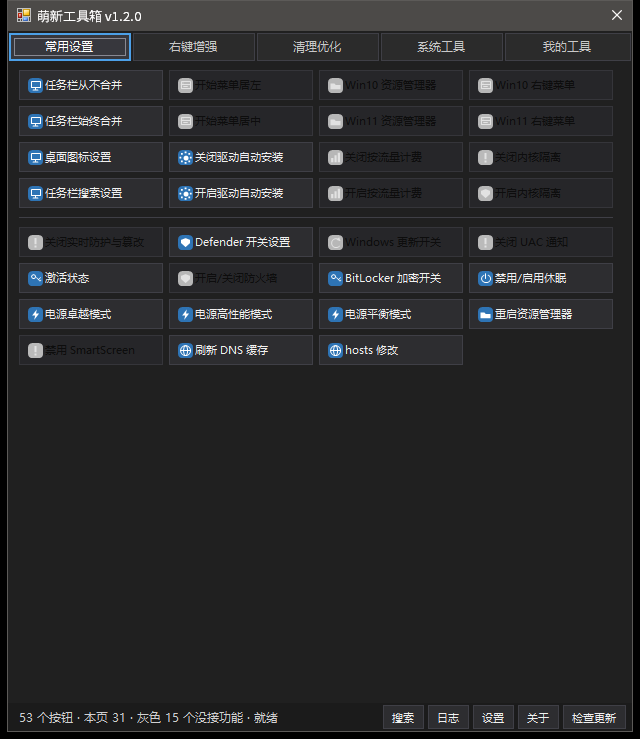
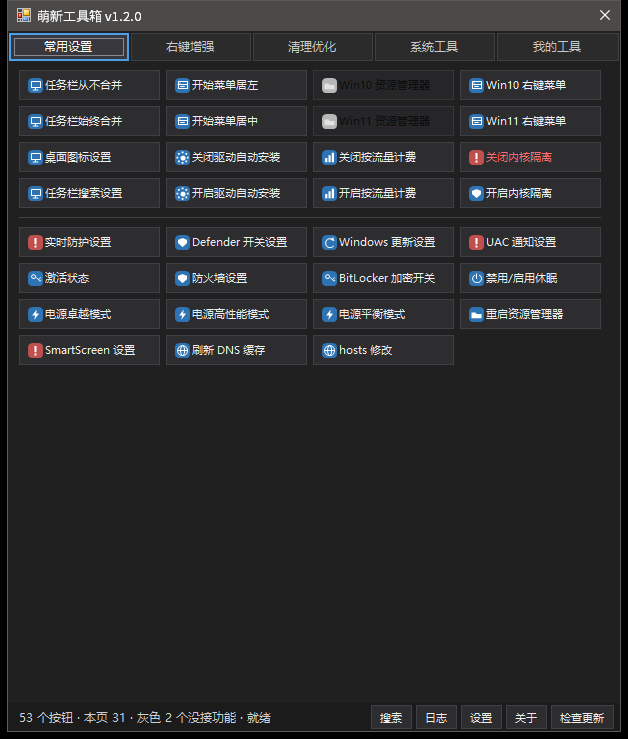
feat: 剩下的灰按钮分批做完（安全类改成打开官方界面 / 内核隔离与按流量计费真做 / Win11 专属照写注册表）
用户拍板的四条：安全类改名+只打开官方界面；Win11 专属照写注册表等换系统生效；
内核隔离+按流量计费真做（二次确认 + 说明重启后生效）；两个「资源管理器」先留着不管。

- 第 2 批 安全类 5 个 → 只打开官方界面（改名成 …设置）：
  实时防护设置 / SmartScreen 设置（探测 SecHealthUI App，退到 ms-settings:windowsdefender）、
  UAC 通知设置（UserAccountControlSettings.exe）、防火墙设置（念状态 + wf.msc）、
  Windows 更新设置（ms-settings:windowsupdate）。一律不代关系统防线。
- 第 3 批 内核隔离 ×2（HKLM DeviceGuard，重启生效）、按流量计费 ×2
  （DefaultMediaCost 被系统保护 → 自动改走官方设置页并说明）。
- 第 4 批 开始菜单居左/居中（TaskbarAl）、Win10/Win11 右键菜单（CLSID 键建/删）。
- 灰按钮 15 → 2（只剩两个「资源管理器」，含义待定，用户说先留着）。
  真功能 38 → 51，危险按钮 6 → 3，窗口 640 → 628（最长按钮名变了）。

顺手修掉两个一直失效的旧按钮：Defender 开关设置、BitLocker 加密开关。
排查发现这台是精简版 Windows：安全中心 App/Defender 被移除、设置里的 windowsdefender 页被
SettingsPageVisibility 藏了、BitLockerWizard 不在、wf.msc/netsh advfirewall/NetSecurity 全没有。
原来的写法是"盲开 URI"，用户点了就是静默失灵；现在全部改成先探测、再打开、都没有就说清楚。

测试：把那两个数字改成 2 / 3；界面回归的"参考墨迹行数"改用彩色图标按钮量（灰图标判不出来会多算
一行，导致 D01e 假红）。109 项全绿（命令行 44 + 界面 65）。文档 DESIGN §4.1 重写、§12 补坑 28/29。

diff --git a/docs/DESIGN.md b/docs/DESIGN.md
@@ -1,9 +1,9 @@
 # 萌新工具箱（mxx1 Toolbox）· 设计 · v1.3（已实现）
 
-> 状态：**已实现并全绿**（2026-10-04，版本 1.2.0）：53 个按钮里 38 个是真功能，其余 15 个灰色占位（禁用）。
+> 状态：**已实现并全绿**（2026-10-04，版本 1.2.0）：53 个按钮里 51 个是真功能，其余 2 个灰色占位（禁用）。
 > 本文件是外观与行为的**唯一正本**，改设计先改这里，再同步 skill。
-> 界面截图：`docs/gui-shot.png`（浅色，全是灰色占位按钮）、`docs/dark-shot.png`（深色）、
-> `docs/system-shot.png`（系统工具页签，彩色 = 真功能，用来对照灰色）；
+> 界面截图：`docs/gui-shot.png`（浅色「常用设置」页：彩色 = 真功能，灰色 = 还没接）、
+> `docs/dark-shot.png`（深色）、`docs/system-shot.png`（系统工具页签）；
 > 外观参考图：`C:\Users\Administrator\Pictures\Snipaste_2026-10-04_10-29-34.png`（Windows系统工具箱 v1.1）。
 
 ## 1 定位
@@ -49,7 +49,7 @@
 │  ────────────────────────────────────────────────────────────────────  │
 │  [i] 关闭实时防护与篡改 [i] Windows 激活 [i] Defender 开关设置 [i] Windows 更新开关│
 │  ...                                                                   │
-│  53 个按钮 · 本页 31 · 灰色 15 个没接功能 · 就绪  [搜索][日志][设置][关于][检查更新] │
+│  53 个按钮 · 本页 31 · 灰色 2 个没接功能 · 就绪  [搜索][日志][设置][关于][检查更新] │
 └────────────────────────────────────────────────────────────────────────┘
 ```
 
@@ -86,21 +86,19 @@
 深色不需要自绘控件：`FlatStyle=Flat` + `FlatAppearance` 逐主题赋值即可；
 标题栏用 `DwmSetWindowAttribute(hwnd, 20→19, dark)`，滚动条用 `SetWindowTheme(hwnd, "DarkMode_Explorer")`。
 
-## 4 页签与按钮清单（共 53 个：38 真功能 + 15 灰色占位）
+## 4 页签与按钮清单（共 53 个：51 真功能 + 2 灰色占位）
 
 `[i]` = 16×16 图标；**粗体** = 危险按钮（深红文字 + 二次确认）；灰色 = `placeholder`（禁用，点不动）。
 
-### 4.1 常用设置（31 个，两段：16 个真功能 + 15 个灰色占位）
+### 4.1 常用设置（31 个，两段：29 个真功能 + 2 个灰色占位）
 
-**真功能 16 个**（点得动；`confirm` = 点之前先弹二次确认）：
+**真功能 29 个**（点得动；`confirm` = 点之前先弹二次确认）：
 
 | 按钮 | 怎么实现的 |
 | --- | --- |
 | 桌面图标设置 | `rundll32 shell32.dll,Control_RunDLL desk.cpl,,0` |
 | 关闭 / 开启驱动自动安装 | `DriverSearching\SearchOrderConfig` = 0 / 1（管理员 + 确认） |
-| Defender 开关设置 | 打开 `ms-settings:windowsdefender`（开关在系统安全中心里，工具箱不代按） |
 | 激活状态 | **只读**：查 `SoftwareLicensingProduct` 把授权状态列出来 |
-| 开启/关闭 BitLocker 加密 | 打开控制面板的 BitLocker 管理页 |
 | 禁用/启用休眠 | 读 `HibernateEnabled` 再 `powercfg /h on\|off`（管理员 + 确认） |
 | 电源卓越 / 高性能 / 平衡模式 | `powercfg` 切方案（卓越模式先 `-duplicatescheme`，管理员 + 确认） |
 | 重启资源管理器 | `taskkill /f /im explorer.exe` + `start explorer.exe`（确认） |
@@ -108,15 +106,25 @@
 | hosts 修改 | 管理员身份打开 `drivers\etc\hosts`（记事本） |
 | 任务栏从不合并 / 始终合并 | `HKCU\...\Explorer\Advanced\TaskbarGlomLevel` = 2 / 0（重启资源管理器后生效；**Win11 先判版本**，微软已取消这个开关，按钮会直接说明而不是假装成功） |
 | 任务栏搜索设置 | 打开 `ms-settings:taskbar`（搜索框显示方式就在这一页，Win10 / Win11 都能开） |
+| 开始菜单居左 / 居中 | `HKCU\...\Explorer\Advanced\TaskbarAl` = 0 / 1（**Win11 才认**；按用户定的做法照写，并在结果里说明"这台是 Win10，换到 Win11 就生效"） |
+| Win10 / Win11 右键菜单 | `HKCU\Software\Classes\CLSID\{86ca1aa0-…-50c905bae2a2}\InprocServer32` 建 / 删（经典 vs 新版；同样只在 Win11 有肉眼变化） |
+| 关闭 / 开启内核隔离 | `HKLM\...\DeviceGuard\Scenarios\HypervisorEnforcedCodeIntegrity\Enabled` = 0 / 1（管理员 + 确认 + **重启电脑后生效**，"关闭"是危险按钮） |
+| 关闭 / 开启按流量计费 | 先试着写 `DefaultMediaCost`；**这个键被系统保护**（只有 Windows 自己的服务有写权限，管理员也不行）→ 改走官方设置页并说明原因 |
+| 实时防护设置 / Defender 开关设置 / SmartScreen 设置 | **只打开官方界面，不代关系统防线**：先探测 Windows 安全中心 App（`Get-AppxPackage` → `shell:appsFolder\<PFN>!SecHealthUI`），没有就退到 `ms-settings:windowsdefender`，都没有就给一句说明 |
+| 防火墙设置 | 先念一遍三个配置文件的开关（`Get-NetFirewallProfile`，没有就说明），再打开 `wf.msc`；管理组件被精简掉的系统会说明"既看不了也打不开" |
+| UAC 通知设置 | 打开 `UserAccountControlSettings.exe`（程序不代改 UAC —— 关掉会影响应用商店和部分应用） |
+| Windows 更新设置 | 打开 `ms-settings:windowsupdate`（程序不代停更新服务） |
+| BitLocker 加密开关 | 有 `BitLockerWizard.exe` 就打开控制面板的 BitLocker 页；只剩 `manage-bde.exe` 就说明"图形界面被移除了，命令行还在" |
 
-**灰色占位 15 个**（`module: todo`，界面上禁用、点不动）：
-开始菜单居左 / 居中、Win10 / Win11 资源管理器、Win10 / Win11 右键菜单、
-关闭 / 开启按流量计费、关闭 / 开启内核隔离、关闭实时防护与篡改、Windows 更新开关、
-关闭 UAC 通知、开启/关闭防火墙、禁用 SmartScreen。
+**灰色占位 2 个**（`module: todo`，界面上禁用、点不动）：**Win10 资源管理器 / Win11 资源管理器**。
 
-> 这些**故意不做**，每个的 `hint` 里写了原因：要么必须改注册表 + 重启资源管理器（改错会让资源管理器起不来），
-> 要么要重启电脑（内核隔离），要么是关掉系统防线（UAC / SmartScreen / 实时防护 / 防火墙）风险太大，
-> 要么系统版本差异太大（任务栏合并 Win11 已经取消了那个开关，得靠第三方工具）。
+> 这两个按钮**含义还没定**（用户 2026-10-04："先留着不管他"）—— 它可能指资源管理器外观、也可能就是
+> 右键菜单风格（那就和上面那两个「右键菜单」重复了）。**想清楚之前不实现**，`hint` 里写明了原因。
+
+> ⚠ 这一页里"打开官方界面"的按钮有个共同规矩：**先探测、再打开、都没有就说清楚**。
+> 原因是用户的这台机器是**精简版 Windows**：Windows 安全中心 App、Defender、BitLocker 图形界面、
+> `wf.msc`、连 `netsh advfirewall` 都被拿掉了，`SettingsPageVisibility` 策略还把设置里的
+> `windowsdefender` 页藏了。**盲写一个 URI 会让用户点了什么都不发生**（属于本项目最忌讳的"静默失灵"）。
 
 > ⚠ 「Windows 激活」按钮**已按要求删除**（2026-10-04）：它打开的是系统激活设置页，
 > 容易被当成"帮你激活"，属于会带来合规风险的东西。只读的「激活状态」保留 —— 它只是把系统
@@ -274,13 +282,13 @@ CLI：`list [--tab <id>]` / `run <id> [--admin] [--dry]` / `status` / `checkupda
 
 **已完成（P0 → 1.2.0）**：窗口骨架、五个页签、四列网格 + 段分隔线、底栏五入口
 （搜索 / 日志 / 设置 / 关于 / 检查更新）、浅/深/跟随系统主题、`tools\*.json` 驱动 + **53 个按钮**
-（38 真功能 + 15 灰色禁用）、灰色占位规则（含置灰图标）、「右键增强」单个按钮（调隔壁安装器窗口）、
+（51 真功能 + 2 灰色禁用）、灰色占位规则（含置灰图标）、「右键增强」单个按钮（调隔壁安装器窗口）、
 「系统工具」12 个（Windows 自带组件 + 常用链接窗口）、「清理优化」8 个、「常用设置」13 个、
 **「我的工具」图形化新建 / 编辑 / 删除 + 拖拽加按钮**、外部工具目录 `bin-tools\`、
 按钮悬停提示、按钮右键菜单、日志面板 + 日志窗口、
 `build.ps1` / 编码体检 / 命令行回归 44 项 / 界面回归 65 项 / 截图工具。
 
-**P1（剩下的）**：把 15 个灰色占位里安全的那些接上（一个一个来，都要走二次确认 + 日志留痕）、
+**P1（剩下的）**：把剩下的灰色占位里安全的那些接上（一个一个来，都要走二次确认 + 日志留痕）、
 按钮排序 / 隐藏 / 固定到常用、多步 `macro`。
 
 **P2**：工具箱自身的更新检查、插件目录扫描、按钮包导入导出、`dsh` 类型按钮、
@@ -304,7 +312,7 @@ CLI：`list [--tab <id>]` / `run <id> [--admin] [--dry]` / `status` / `checkupda
 
 - `build.ps1` 一次通过，产出单文件 `bin\Mxx1Toolbox.exe`（约 136 KB = 139,264 字节，含 53 个内嵌图标），无警告
 - `tools\Test-Encoding.ps1` 全绿（98 个文件）
-- `tests\Test-Cli.ps1` **44/44**：中文不乱码、按钮数 53、页签分布 31/1/8/12/1、灰色占位 15、
+- `tests\Test-Cli.ps1` **44/44**：中文不乱码、按钮数 53、页签分布 31/1/8/12/1、灰色占位 2、
   占位按钮写日志、`permdel.gui --dry` 解析出隔壁 exe、直接问隔壁 exe 的 `status` 拿到 `installed=`、
   **12 个系统工具全部 `--dry` 解析通过**（少了目标或没解释就红）、错误用法退出码 2
 - `tests\Test-Gui.ps1` **60/60**：标题栏没有最小化/最大化方框、窗口可缩放、四列多行、
@@ -444,6 +452,35 @@ CLI：`list [--tab <id>]` / `run <id> [--admin] [--dry]` / `status` / `checkupda
     另外 `Launcher` 在 `kind: exe` 启动前也补了一次解析 —— 老版本建出来的按钮照样能跑。
     测试：拖拽手势是 OLE 拖放、没法在测试里合成，所以把**决策**做成命令行 `draft <路径>`
     （只打印会变成什么按钮，不写文件），回归 G01–G06 盯它。
+28. **"打开官方界面"这类按钮，盲开就是静默失灵**（做安全类那一批时发现的，影响 5 个按钮 + 2 个旧按钮）：
+    用户的机器是**精简版 Windows** —— 我按常规写法准备的入口，一半在这台机器上根本不存在：
+
+    | 入口 | 这台机器上的结果 |
+    | --- | --- |
+    | `ms-settings:windowsdefender` | 能打开"设置"，但 `SettingsPageVisibility` 策略把 `windowsdefender` **这一页藏了** |
+    | `shell:appsFolder\…SecHealthUI` | Windows 安全中心 App **没装**（`Get-AppxPackage` 查不到），explorer 回退成了打开「文档」 |
+    | `wf.msc`（高级防火墙） | **不在**（`mmc.exe` 打开的是空控制台，看着像成功） |
+    | `netsh advfirewall` | **不存在**（`advfirewall` 上下文整个没了） |
+    | `control.exe /name Microsoft.WindowsFirewall` / `firewall.cpl` | 退出码 0、**一个窗口都没有** |
+    | `control.exe /name Microsoft.BitLockerDriveEncryption` | 同上（现有的 BitLocker 按钮一直是死的） |
+    | `Get-NetFirewallProfile` / `Get-NetAdapter` | NetSecurity / NetAdapter 模块**都不在** |
+    | `manage-bde -status` | Provider load failure（WMI 提供程序也没了） |
+    | `UserAccountControlSettings.exe` / `desk.cpl` / `services.msc` / `gpedit.msc` | **能开**（这才是正常的那些） |
+
+    修法：这类按钮**一律先探测再打开**（`Test-Path` / `Get-Command` / `Get-AppxPackage`），
+    探测不到就给一句"这台系统里 XX 已被移除，没有能打开的界面"，而不是"点了没反应"。
+    探测可用性时**别用 `Get-NetAdapter` / `Get-NetFirewallProfile` 当判据**（它们本身可能没装），
+    用 WMI（`Get-CimInstance Win32_NetworkAdapter`）+ 文件存在性更稳。
+    教训：**"官方界面"不是常量**，除了系统版本（Win10/Win11）还要考虑"组件被精简掉了"。
+29. **回读校验分不清"我写的"和"本来就是"**（写「关闭按流量计费」时踩到）：
+    脚本先试着写 `DefaultMediaCost`，失败后**读回**看是不是 1 —— 而它默认就是 1，
+    于是失败被当成成功，弹出"已设为不计费"的假消息。修法：**以"写入是否抛异常"为准**
+    （`try { … } catch { $ok = $false }`），读回只用来在消息里显示当前值。
+    教训：**用状态值判断"操作成功"时，先问一句"这个值有没有可能本来就是这样"**；
+    比较可靠的是"操作前后有没有变化"，或者干脆看操作本身有没有报错。
+    同一个键还有个坑：`DefaultMediaCost` 的 ACL 只给 `SYSTEM` / `Wcmsvc` / `TrustedInstaller` 写权限，
+    **管理员也只有读**（提权也写不进，逐连接的 `Cost` 值写了也不改变计费类型）——
+    所以"按流量计费"在第三方程序里基本只能打开设置页让用户自己点。
 ## 13 外部工具放哪：`bin-tools\` 工具目录（① 层**已实现**）
 
 **背景**：工具箱现在会调一个外部程序（隔壁的 `PermanentDeleteSetup.exe`），以后还会加别的

diff --git a/CHANGELOG.md b/CHANGELOG.md
@@ -26,19 +26,35 @@
 - **底栏加了第 5 个按钮「关于」**：「右键增强」收敛成一个按钮以后，关于窗口（署名 / 许可证 /
   打开设置目录 / 打开工具目录）本来没了入口（见 §12 坑 19）。
 - **`run <id> --dry` 对灰色按钮回 `kind=none` / `exists=no`**：它确实没有目标，不再假装能解析。
-- **接上真功能的按钮（共 25 个，分批次做）**：
+- **接上真功能的按钮（共 38 个，分批次做）**：
   - **第 1 批（任务栏 3 个，HKCU 注册表 / 打开设置页，不需要管理员、可逆）**：
     「任务栏从不合并」「任务栏始终合并」写 `TaskbarGlomLevel` = 2 / 0 并把当前值读回来告诉你
     （重启资源管理器后生效）；**先判系统版本** —— Win11 上微软已经取消这两个开关，按钮会直接说
     "改注册表也不生效（只能靠第三方工具）"，不假装成功。
     「任务栏搜索设置」打开 `ms-settings:taskbar`（原来灰着是因为"没找到各版本都稳定的设置页地址"，
     实测 Win10 19045 与 Win11 都能开，本机已验）。
-  - 常用设置 13 个：桌面图标设置、关闭/开启驱动自动安装、Defender 开关设置（打开系统安全中心）、
-    激活状态（**只读**，查授权状态）、BitLocker 加密开关（打开控制面板页）、禁用/启用休眠、
-    电源卓越/高性能/平衡模式、重启资源管理器、刷新 DNS 缓存、hosts 修改。
+  - **第 2 批（安全类 5 个 → 只打开官方界面，用户拍板；按钮名一起改成「…设置」）**：
+    「实时防护与篡改」→**实时防护设置**、「禁用 SmartScreen」→**SmartScreen 设置**（都先探测
+    Windows 安全中心 App：`Get-AppxPackage` → `shell:appsFolder\<PFN>!SecHealthUI`，没有就退到
+    `ms-settings:windowsdefender`，都没有就说明原因）、「关闭 UAC 通知」→**UAC 通知设置**
+    （`UserAccountControlSettings.exe`）、「开启/关闭防火墙」→**防火墙设置**（念一遍三个配置文件的
+    开关再开 `wf.msc`）、「Windows 更新开关」→**Windows 更新设置**（`ms-settings:windowsupdate`）。
+    **一律不代关系统防线** —— 和控制类动作分开，这是合规底线。
+  - **第 3 批（要管理员 + 重启的 4 个，用户拍板"做，但要二次确认 + 说明重启后生效"）**：
+    「关闭/开启内核隔离」写 `DeviceGuard\Scenarios\HypervisorEnforcedCodeIntegrity\Enabled`（+ 重启）；
+    「关闭/开启按流量计费」先试着写 `DefaultMediaCost`，**这个键被系统保护**（只有 Windows 自己的
+    服务有写权限，管理员也不行）→ 自动改走官方设置页并说明为什么代改不了（Wi-Fi / 有线自动选页面）。
+  - **第 4 批（Win11 专属 4 个，用户拍板"照写注册表，换到 Win11 就生效"）**：
+    「开始菜单居左/居中」写 `TaskbarAl` = 0 / 1；「Win10/Win11 右键菜单」建 / 删
+    `HKCU\Software\Classes\CLSID\{86ca1aa0-…}\InprocServer32`。不是 Win11 时结果里会写清
+    "这台是 Win10，开关只有 Win11 认，换系统后生效"。
+  - 常用设置其余 13 个：桌面图标设置、关闭/开启驱动自动安装、激活状态（**只读**，查授权状态）、
+    禁用/启用休眠、电源卓越/高性能/平衡模式、重启资源管理器、刷新 DNS 缓存、hosts 修改。
   - 清理优化 8 个（**整页做完**）：一键清理垃圾、清理临时文件、清空回收站、清理浏览器缓存
     （浏览器在跑就拒绝执行）、磁盘清理（`cleanmgr`）、存储感知设置、开机启动项管理、大文件查找（只读扫描）。
-  - 删除类动作都是二次确认 + 日志留痕；「一键清理垃圾」「清空回收站」仍是深红危险按钮。
+  - 删除类动作都是二次确认 + 日志留痕；「一键清理垃圾」「清空回收站」「关闭内核隔离」是深红危险按钮。
+  - **「Win10 / Win11 资源管理器」两个继续灰着**（用户："先留着不管他"）：含义（外观？还是右键菜单
+    风格？）没定清楚之前不实现，`hint` 里写明原因。
 
 ### 变更
 
@@ -49,7 +65,8 @@
 - **删除「Windows 激活」按钮**（用户："把 window 激活删除掉违规的"）：它打开的是系统激活设置页，
   容易被当成"帮你激活"，属于合规风险。**只读的「激活状态」保留**。
 - 「Defender 开关设置」不再标 `danger`（它只是打开系统设置页，不代按开关），危险按钮 7 → 6 个。
-- 按钮数 54 → **53**（常用设置 32 → 31），灰色占位 41 → **15**，真功能 38 个。
+- 按钮数 54 → **53**（常用设置 32 → 31），灰色占位 41 → **2**，真功能 51 个，危险按钮 6 → 3 个。
+  窗口宽度跟着最长按钮名走：640 → **628**（「关闭实时防护与篡改」改名后不再是最长的那一个）。
 - 版本号 **1.2.0**。
 
 ### 修复
@@ -90,6 +107,16 @@
   拖拽手势是 OLE 拖放、测试里没法合成，所以把**决策本身**做成可测的（回归 G01–G06）。
 - **命令行报错信息的中文是乱码**：`Main` 只给 stdout 装了 UTF-8 写入器、stderr 没装，
   于是 `用法:` / `找不到...` 这类中文按 GBK 出去（写 G06 时当场抓到）。
+- **「Defender 开关设置」和「BitLocker 加密开关」在这台机器上点了没反应**（做第 2 批时顺手查出来的）：
+  这台是**精简版 Windows** —— Windows 安全中心 App 没装、Defender 组件被移除、
+  `SettingsPageVisibility` 策略把设置里的 `windowsdefender` 页藏了、BitLocker 的
+  `BitLockerWizard.exe` 也没了（`manage-bde` 的 WMI 提供程序同样不在）。原来那两个按钮盲开 URI / 控制面板项，
+  结果是"静默失灵"。现在都改成**先探测、再打开、都没有就说清楚**：
+  Defender / 实时防护 / SmartScreen 会说明"这台系统的安全中心已被移除"；
+  BitLocker 会说明"图形界面被移除了，命令行 `manage-bde` 还在"。
+- 同一次排查还确认：这台机器的**防火墙管理组件整条链都没了**（安全中心没装、`wf.msc` 不在、
+  `netsh advfirewall` 不存在、控制面板的 `firewall.cpl` 打开是空的），所以「防火墙设置」在
+  这台机器上只会念状态并说明原因，不做假动作。
 
 ### 工程
 

diff --git a/skill/mxx1-toolbox/SKILL.md b/skill/mxx1-toolbox/SKILL.md
@@ -18,15 +18,22 @@ description: Use when working on "萌新工具箱 / mxx1 Toolbox" — the Window
 ## 当前状态（2026-10-04，v1.2.0）
 
 - ✅ **测试 109 项全绿**：命令行回归 44 + 界面回归 65（外加编码体检 99 个文件）。
-  产物 `bin\Mxx1Toolbox.exe`（约 136 KB 单文件），五个 `tools.*.json` + 53 个 `icons.*.png` 已内嵌。
-- ✅ **53 个按钮 = 38 个真功能 + 15 个灰色占位**：`常用设置` 31（16 真 / 15 灰）/
+  产物 `bin\Mxx1Toolbox.exe`（约 150 KB 单文件），五个 `tools.*.json` + 53 个 `icons.*.png` 已内嵌。
+- ✅ **53 个按钮 = 51 个真功能 + 2 个灰色占位**：`常用设置` 31（29 真 / 2 灰）/
   `右键增强` **1**（真）/ `清理优化` **8**（全真）/ `系统工具` **12**（全真）/
   `我的工具` 1（图形化新建，真）。
-- ✅ **灰色 = 功能还没接入 = 禁止点击**（用户 2026-10-04 改的规则）：15 个占位按钮 `Enabled=false`、
+- ✅ **灰色 = 功能还没接入 = 禁止点击**（用户 2026-10-04 改的规则）：2 个占位按钮 `Enabled=false`、
   灰底灰字 + **置灰图标**（`IconFactory.GetMuted()`）—— 点不动、不能聚焦、不弹提示；
   禁用控件不显示 tooltip，所以状态栏在有灰按钮的页面上带一句「灰色 N 个没接功能」。
-- ✅ **「系统工具」12 个 + 「清理优化」8 个 + 「常用设置」13 个都是真功能**；
+- ✅ **「系统工具」12 个 + 「清理优化」8 个 + 「常用设置」29 个都是真功能**；
   `run <id> --dry` 能把它们的目标解析一遍（缺组件给整句说明，家庭版没有 gpedit）。
+- ⚠ **这台机器是精简版 Windows（2026-10-04 实测）**：Windows 安全中心 App 没装、Defender 组件被移除、
+  `SettingsPageVisibility` 策略藏了设置里的 `windowsdefender` 页、BitLocker 的 `BitLockerWizard.exe`
+  不在、`wf.msc` 不在、`netsh advfirewall` 不存在、`firewall.cpl` 与 `control.exe /name …` 打开是空的、
+  NetSecurity / NetAdapter 模块都没有。所以：
+  **凡是"打开某个官方界面"的按钮，一律先探测再打开，探测不到就说明原因**
+  （探测用 `Test-Path` / `Get-Command` / `Get-AppxPackage` / WMI，别用 `Get-NetAdapter` 当判据）。
+  安全类按钮（实时防护 / Defender / SmartScreen / 防火墙 / UAC / 更新）**只打开官方界面，绝不代关系统防线**。
 - ✅ **「右键增强」只剩 1 个按钮「永久删除工具」**：不带参数启动隔壁 `PermanentDeleteSetup.exe`
   = 开它自己的窗口（安装/卸载/状态/测试/条款/日志/更新都在那里）。原来 8 条定义留在
   `tools\rightmenu.json` 的 `_disabled` 数组里当注释（加载器只读 `tools`）。
@@ -37,7 +44,7 @@ description: Use when working on "萌新工具箱 / mxx1 Toolbox" — the Window
 - ✅ **外部工具目录 `bin-tools\` 已实现**（用户定的名字）：查找顺序里加一档、`build.ps1 -Package` 自动拷入、
   设置 / 关于窗口有「打开工具目录」、`kind: exe` 的相对路径按「工具箱目录 → `bin-tools\`」解析。
   ⬜ 还没做：把工具内嵌进 exe 当兜底、`bin-tools\<工具>\tool.json` 自动扫按钮（`docs\DESIGN.md` §13 的 ② ③）。
-- ⬜ P1：把 15 个灰色占位里安全的那些接上（其余按 hint 里写的理由继续灰着）、按钮排序 / 隐藏 / 固定到常用、多步 `macro`。
+- ⬜ P1：剩下的都做完了，只有「Win10 / Win11 资源管理器」两个继续灰着（含义待用户定）、按钮排序 / 隐藏 / 固定到常用、多步 `macro`。
 
 ## 结构
 

diff --git a/README.md b/README.md
@@ -18,7 +18,7 @@
 - 图标：53 个 16×16 PNG（按页签配色 + 按名字选图形，`tools\Make-Icons.ps1` 一键重生成），
   编译时内嵌进 exe；`assets\icons\<id>.png` 或清单里的 `icon` 字段可以覆盖
 - 浅色 / 深色 / 跟随系统三种主题，标题栏也跟着变
-- **灰色按钮 = 功能还没接入**（15 个）：灰底灰字 + 图标置灰，而且**禁止点击**（点不动）；状态栏会写明"灰色 N 个没接功能"
+- **灰色按钮 = 功能还没接入**（只剩 2 个）：灰底灰字 + 图标置灰，而且**禁止点击**（点不动）；状态栏会写明"灰色 N 个没接功能"
 - 「右键增强」只放一个按钮 **「永久删除工具」**：打开隔壁的
   [永久删除（不进回收站）](../permanent-delete-menu) 安装器窗口，零改动集成
 - 「系统工具」12 个按钮**都是真功能**：设备管理器 / 声音设置 / 设备和打印机 / 计划任务 / 注册表 / 服务 /
@@ -48,7 +48,7 @@ powershell -ExecutionPolicy Bypass -File build.ps1     # 编译，产物 bin\Mxx
 
 | 页签 | 数量 | 性质 |
 | --- | --- | --- |
-| 常用设置 | 31 | 13 真功能（桌面图标 / 驱动自动安装 / Defender 入口 / 激活状态 / BitLocker / 休眠 / 电源模式 / 重启资源管理器 / 刷新 DNS / hosts）+ 18 灰色占位 |
+| 常用设置 | 31 | **29 真功能**（桌面图标 / 驱动自动安装 / 任务栏合并 ×2 / 任务栏搜索 / 开始菜单对齐 ×2 / 右键菜单风格 ×2 / 按流量计费 ×2 / 内核隔离 ×2 / 激活状态 / 休眠 / 电源模式 ×3 / 重启资源管理器 / 刷新 DNS / hosts 修改 / 实时防护·Defender·SmartScreen·防火墙·UAC·更新 六个「打开官方界面」入口 / BitLocker）+ 2 灰色占位（两个「资源管理器」含义待定） |
 | 右键增强 | 1 | **真功能**「永久删除工具」，打开隔壁 `PermanentDeleteSetup.exe` 的窗口 |
 | 清理优化 | 8 | **真功能**（一键清理垃圾 / 清理临时文件 / 清空回收站 / 浏览器缓存 / 磁盘清理 / 存储感知 / 启动项 / 大文件查找） |
 | 系统工具 | 12 | **真功能**（设备管理器 / 注册表 / 服务 / 组策略 / 任务管理器 / 常用链接…） |
